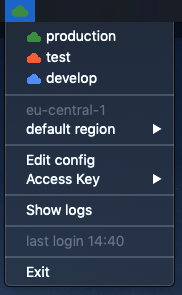
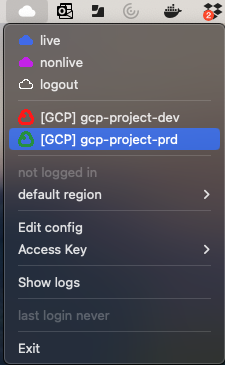
correct readme, add example screenshot for gcp

diff --git a/README.md b/README.md
@@ -42,20 +42,30 @@ productive:
 #  - gcp project is the profile group name
 #  - region and type are mandatory
 #  - profiles section is no longer needed
-brain-zero-dev:
+gcp-project-dev:
   color: '#FF0000'
-  team: incai
+  team: teama
   region: europe-west1
   type: gcp
 
-brain-analysis-attr-dev:
+gcp-project-prd:
   color: '#388E3C'
-  team: aaa
+  team: teama
   region: europe-west1
   type: gcp
 ```
 
 If you have account ids with leading zeros, please make sure to put them in quotes.
+
+### Google Cloud login
+Click on the project that you want to use, this will trigger the typical login flow for user and application
+credentials using browser. 
+
+If you have multiple browser profiles, please select the correct active browser. 
+
+The login flow will be automatically stopped after 60 seconds of inactivity or not completion.
+
+It will trigger the login flow again after 8 hours.
 
 ### Chain Assume
 You may add a "source" profile which will be used to assume a given role.
